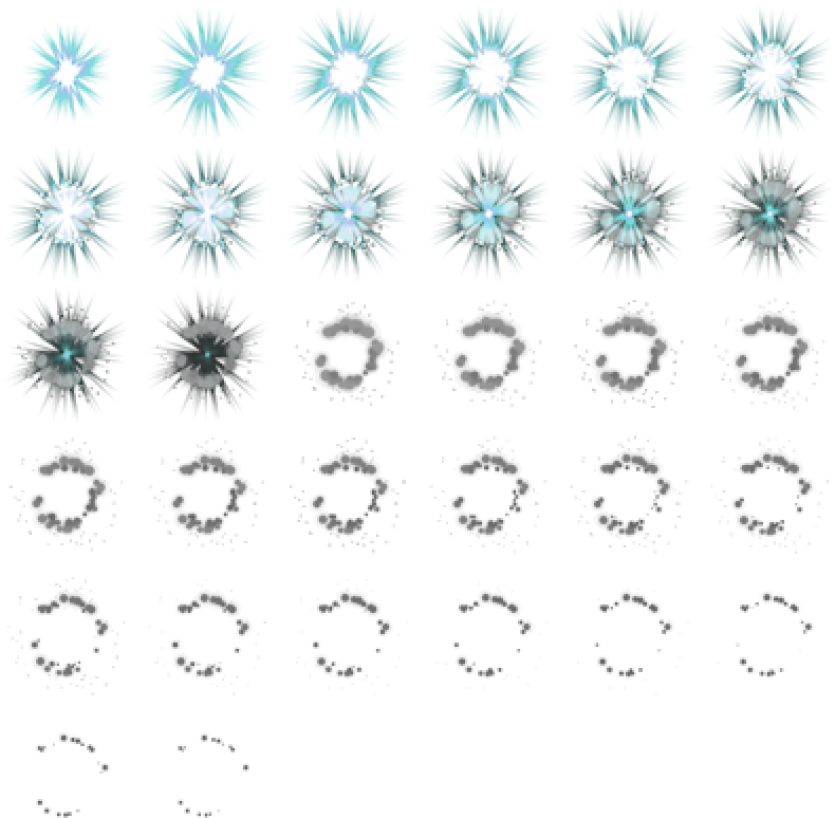
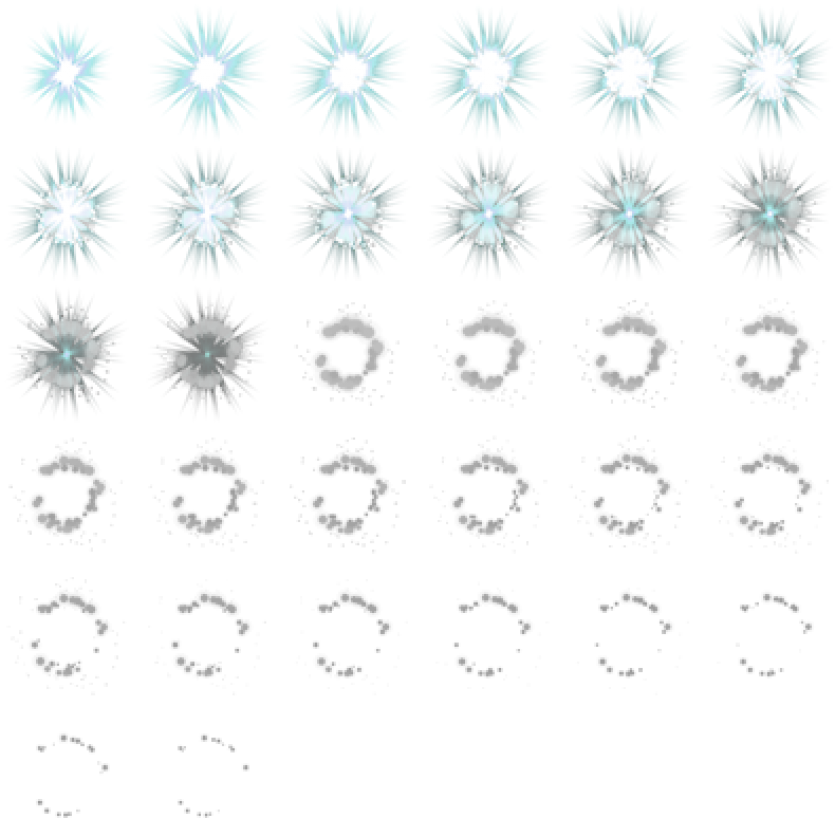
some graphic upgrades increase GameObjects removal performance

diff --git a/public/js/haze/hazeHandler.js b/public/js/haze/hazeHandler.js
@@ -6,19 +6,20 @@ class HazeHandler {
   #canvases = {};
 
   constructor({gameLoop, canvasHandler, resizeImageWorker}){
-    this.#canvases[0] = canvasHandler.getCanvas(CanvasHandler.canvasTypes.backgroundFront).canvas;
+    this.#canvases[0] = canvasHandler.getCanvas(CanvasHandler.canvasTypes.backgroundFace).canvas;
     this.#canvases[1] = canvasHandler.getCanvas(CanvasHandler.canvasTypes.backgroundMiddle).canvas;
     this.#canvases[2] = canvasHandler.getCanvas(CanvasHandler.canvasTypes.backgroundFar).canvas;
     this.resizeImageWorker = resizeImageWorker;
-    this.#upcoming = Math.floor(Math.random()*5+10);
-
+    //this.#upcoming = Math.floor(Math.random()*5+10);
+    this.#upcoming =2;
     resizeImageWorker.onmessage = ({data}) =>{
       let canvas;
       let img = new Image();
 
+
       img.onload =()=>{
-        const size = img.width * img.height;
-        const velocity = size * 0.0000007;
+        const size = img.width;
+        const velocity = size * 0.0006;
 
         if (velocity >= 1 ) canvas = this.#canvases[0];
         if (velocity > 0.5 && velocity < 1) canvas = this.#canvases[1];
@@ -30,7 +31,7 @@ class HazeHandler {
           width: img.width,
           height: img.height,
           posX: e8.global.screenWidth,
-          posY: Math.floor(Math.random()* e8.global.screenHeight-300),
+          posY: Math.floor(Math.random()* e8.global.screenHeight-100),
           posDX: 0,
           posDY: 0,
           velX: -1 * velocity,
@@ -38,7 +39,7 @@ class HazeHandler {
         })
 
         GameObjectsHandler.instance.addGameObject(haze);
-        console.log("haze added");
+        console.log("created");
 
         //releasing object URL
         URL.revokeObjectURL(img.src);
@@ -54,8 +55,8 @@ class HazeHandler {
   }
 
   create = () => {
-    let width = Math.floor(Math.random()*1700+2559)
-    let height = Math.floor(Math.random()*1200+750)
+    let width = Math.floor(Math.random()*2570+855)
+    let height = Math.floor(Math.random()*1200+75)
 
     this.resizeImageWorker.postMessage({
       payload: {
@@ -76,6 +77,7 @@ class HazeHandler {
     if (this.#ticker > this.#upcoming){
       this.#ticker = 0;
       this.#upcoming = Math.floor(Math.random()*15+10);
+     //this.#upcoming = 2;
       this.create();
     }
   }

diff --git a/public/js/gameLoop/gameLoop.js b/public/js/gameLoop/gameLoop.js
@@ -4,7 +4,7 @@ class GameLoop {
   #elapsedTime = 0;
   #fpsTarget = 60;
   #renderTargetInterval = 0;
-  #galaxyCoordinatesIncrement = 10;
+  #galaxyCoordinatesIncrement = 5;
   #gameSpeedFactor = 0.1;
   #hudHandler;
   #subscribers = [];
@@ -50,10 +50,13 @@ class GameLoop {
     CollisionDetector.instance.performCollisionCheck();
 
     //remove obsolete gameObjects
+    GameObjectsHandler.instance.removeGameObjects();
+
+    /*
     for (const gameObjectToRemove in GameObjectsHandler.gameObjectsToRemove) {
       GameObjectsHandler.instance.removeGameObject(gameObjectToRemove);
     }
-
+*/
     // update game objects
     for (let i=0, len = GameObjectsHandler.gameObjects.length; i < len; i++){
       GameObjectsHandler.gameObjects[i].update(deltaTime);
@@ -65,6 +68,7 @@ class GameLoop {
    */
   #render = () => {
     //clear canvas(es)
+
     for (let context in GameObjectsHandler.contexts){
       GameObjectsHandler.contexts[context].clearRect(0,0,e8.global.screenWidth, e8.global.screenHeight);
     }
@@ -82,9 +86,7 @@ class GameLoop {
 
 
   #animate = (newTime) => {
-
       this.#animationId = requestAnimationFrame(this.#animate);
-
       //using Date.now() since it's still faster than performance.now() in most browsers
       this.#now = Date.now();
       //calculating elapsed time for render

diff --git a/public/js/gameObjects/gameObjectsHandler.js b/public/js/gameObjects/gameObjectsHandler.js
@@ -5,7 +5,7 @@ class GameObjectsHandler {
   static instance = new this();
   static gameObjects = [];
   static contexts = {};
-  static gameObjectsToRemove = {};
+  static gameObjectsToRemove = [];
 
 
   /**
@@ -27,9 +27,26 @@ class GameObjectsHandler {
    * @param id
    */
   addGameObjectToRemoveQueue = (id) => {
-    GameObjectsHandler.gameObjectsToRemove[id]= id;
+    GameObjectsHandler.gameObjectsToRemove.push(id)
   }
 
+
+  removeGameObjects = () =>{
+    for (let i= 0, len = GameObjectsHandler.gameObjectsToRemove.length; i < len; i++){
+      const removedObject = GameObjectsHandler.gameObjects.find(obj => obj.id === GameObjectsHandler.gameObjectsToRemove[i]);
+
+      if (removedObject) {
+        if (removedObject.subscriber) {
+          removedObject.subscriber.subscriptionsUpdate("objectRemovedFromGameLoop", removedObject);
+        }
+        GameObjectsHandler.gameObjects = GameObjectsHandler.gameObjects.filter(obj => obj.id !== GameObjectsHandler.gameObjectsToRemove[i]);
+        //delete GameObjectsHandler.gameObjectsToRemove[id];
+        //console.log(GameObjectsHandler.gameObjects);
+       //console.log( GameObjectsHandler.gameObjects);
+      }
+    }
+    GameObjectsHandler.gameObjectsToRemove = [];
+  }
   /**
    *
    * @param id

diff --git a/public/js/procedural/ships/proceduralShipImage.js b/public/js/procedural/ships/proceduralShipImage.js
@@ -82,8 +82,7 @@ class ProceduralShipImage {
   getImageData = async ()=>{
     const blob = await this.canvas.convertToBlob();
     const imageData = this.ctx.getImageData(0, 0, this.canvas.width, this.canvas.height);
-    return ({blob, imageData})
-    //return await this.canvas.convertToBlob();
+    return ({blob, imageData});
   }
 
 
@@ -169,9 +168,9 @@ class ProceduralShipImage {
     this.ctx.fillStyle = gradient;
 
     this.ctx.beginPath();
-    gradient.addColorStop(0.4, `rgba(1, 1, 1, 1)`);
-    gradient.addColorStop(0.6, `rgba(${rgb.join()}, 0.9)`);
-    gradient.addColorStop(1, 'rgba(255, 255, 255, 0.9)');
+    gradient.addColorStop(0.3, `rgba(1, 1, 1, 1)`);
+    gradient.addColorStop(0.6, `rgba(${rgb.join()}, 0.3)`);
+    gradient.addColorStop(1, 'rgba(100, 100, 100, 0.9)');
     this.ctx.fillRect(0,0,((shipSize+2)*offset),offset);
     this.ctx.closePath();
     this.ctx.globalAlpha = 1;

diff --git a/public/js/sound/proceduralMusic.js b/public/js/sound/proceduralMusic.js
@@ -48,8 +48,6 @@ class ProceduralMusic {
     //this.startSequencer();
   }
 
-
-
   createSequence = ()=>{
 
     const lengthIntro = Math.floor(Math.random()*4+4)*4;
@@ -91,9 +89,7 @@ class ProceduralMusic {
 
     for (let i= 0; i < 1; i++){
       const soundTypeIntro = Math.floor(Math.random()*4);
-
       const availableSounds = this.audioAssets[this.audioAssetsEnum[soundTypeIntro]][key][120];
-
       const selectedSound = this.audio[this.audioAssetsEnum[soundTypeIntro]][key][120][Math.floor(Math.random()*availableSounds.length)];
 
       //soundsIntro.push(this.audio[this.audioAssetsEnum[soundTypeIntro]][availableSounds[Math.floor(Math.random()*availableSounds.length)]]);
@@ -177,7 +173,5 @@ class ProceduralMusic {
         }
       }
     }
-    console.log("audio:", this.audio);
-
   };
 }

diff --git a/public/js/enemyShip/proceduralEnemyShipImageType1.js b/public/js/enemyShip/proceduralEnemyShipImageType1.js
@@ -106,7 +106,7 @@ class ProceduralEnemyShipImageType1 extends ProceduralShipImage {
     this.addColor({
       shipSize : shipSize,
       offset : offset,
-      alpha : 0.5
+      alpha : 0.7
     })
 
     this.addDecoration({
@@ -116,7 +116,7 @@ class ProceduralEnemyShipImageType1 extends ProceduralShipImage {
       endTile : shipSize+1,
       offset : offset,
       filePrefix : this.#filePrefix,
-      alpha : 1,
+      alpha : 0.6,
       globalCompositionType : "source-over"
     })
 

diff --git a/public/js/particles/particlesObject.js b/public/js/particles/particlesObject.js
@@ -28,7 +28,7 @@ class ParticlesObject {
     // opacity =  this.particles[i-7];
     if (this.particles.length > 0) {
       for (let i = this.particles.length - 1; i >= 0; i -= 8) {
-        this.particles[i - 7] -= 2;
+        this.particles[i - 7] -= 1.5;
         if (this.particles[i - 7] / 100 >= 0) {
           this.particles[i - 1] += this.particles[i - 3] + this.velX;
           this.particles[i] += this.particles[i - 2] + this.velY;

diff --git a/public/js/explosion/classAEnemyShipExplosion.js b/public/js/explosion/classAEnemyShipExplosion.js
@@ -44,11 +44,11 @@ class ClassAEnemyShipExplosion extends Explosion {
     super({
       spriteSheet : ClassAEnemyShipExplosion.imageResource.image,
       sound: ClassAEnemyShipExplosion.soundResource,
-      spriteSheetRows : 6,
+      spriteSheetRows : 2,
       spriteSheetColumns : 6,
       width : 159,
       height : 100,
-      frames : 36,
+      frames : 18,
       currentFrame : 0,
       step : 50,
       stride : 0,

diff --git a/public/js/dust/dustHandler.js b/public/js/dust/dustHandler.js
@@ -16,7 +16,7 @@ class DustHandler {
     this.resourceHandler = resourceHandler;
     this.#canvas =  this.canvasHandler.getCanvas(CanvasHandler.canvasTypes.dust).canvas;
     this.#context = this.canvasHandler.getCanvas(CanvasHandler.canvasTypes.dust).context;
-    this.#createParticles({amount:150});
+    this.#createParticles({amount:80});
 
     this.dustParticles = new DustParticles({
       particles: this.#particles,

diff --git a/public/js/shield/classBShield.js b/public/js/shield/classBShield.js
@@ -52,7 +52,7 @@ class ClassBShield extends Shield {
       stride: ClassBShield.imageResource.image.height / 32,
       strideX: ClassBShield.imageResource.image.width / 8,
       strideY: ClassBShield.imageResource.image.height /4,
-      width: ClassBShield.imageResource.image.width / 6,
+      width: ClassBShield.imageResource.image.width / 5,
       relatedShip: relatedShip,
     });
   }

diff --git a/public/js/enemyShip/enemyShipHandler.js b/public/js/enemyShip/enemyShipHandler.js
@@ -36,7 +36,7 @@ class EnemyShipHandler {
         shipType: ProceduralEnemyShipFactory.shipTypes.EnemyShipType1,
         shipTypeVariation: ProceduralEnemyShipType1.shipTypeVariations[""+variation]
       }).then(()=>{
-        this.startCreation(Math.floor(Math.random()*10000+1000))
+        this.startCreation(Math.floor(Math.random()*3000+1000))
       });
     },interval)
   }

diff --git a/public/js/galaxy/galaxy.js b/public/js/galaxy/galaxy.js
@@ -47,7 +47,7 @@ class Galaxy {
           posY: Math.floor(Math.random()*e8.global.screenHeight)-(planetData.radius*1.2),
           posDX: 0,
           posDY: 0,
-          velX: -0.25* (planetData.radius/200/2),
+          velX: -0.15* (planetData.radius/200/2),
           velY: 0,
           canvas: this.canvas
         })
